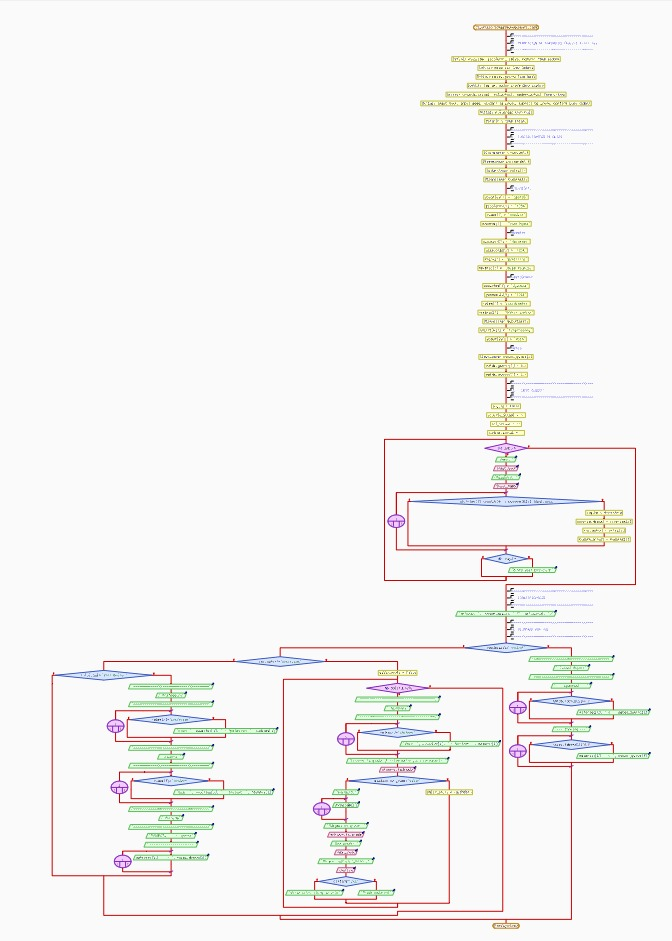
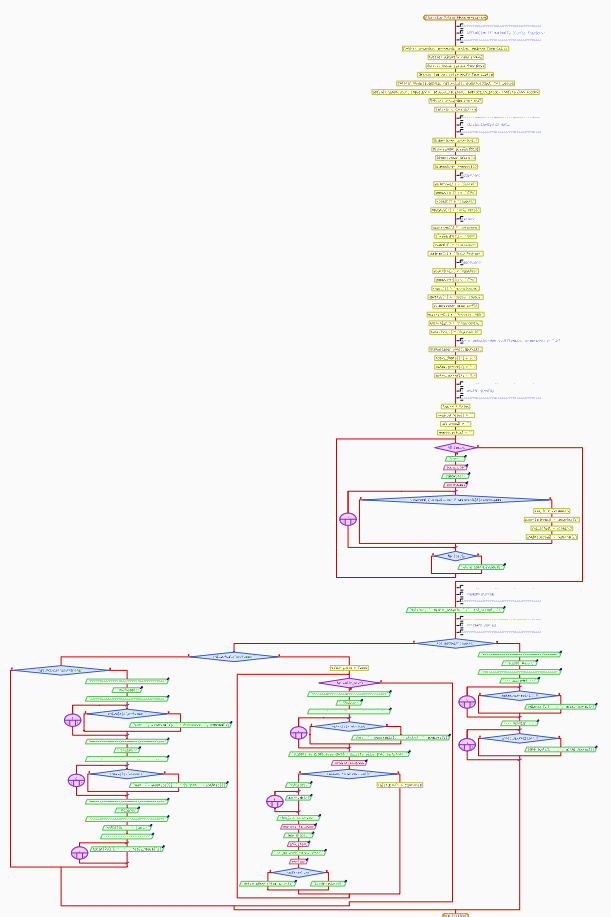
Classwork #10 - School Management System corrección reprobados

Changed region(s): [[0.0311, 0.0, 0.9951, 1.0]]

diff --git a/CW10/cw10.py b/CW10/cw10.py
@@ -142,8 +142,11 @@ if role == "student":
     
     for subj in subjects:
         grade = notes[current_user][subj]
-        print(f"{subj:<32} : {grade}") 
         
+        
+        if grade >= 7.0:
+            print(f"{subj:<32} : {grade}")
+            
         if grade >= 7.0:
             approved.add(subj)
         else: